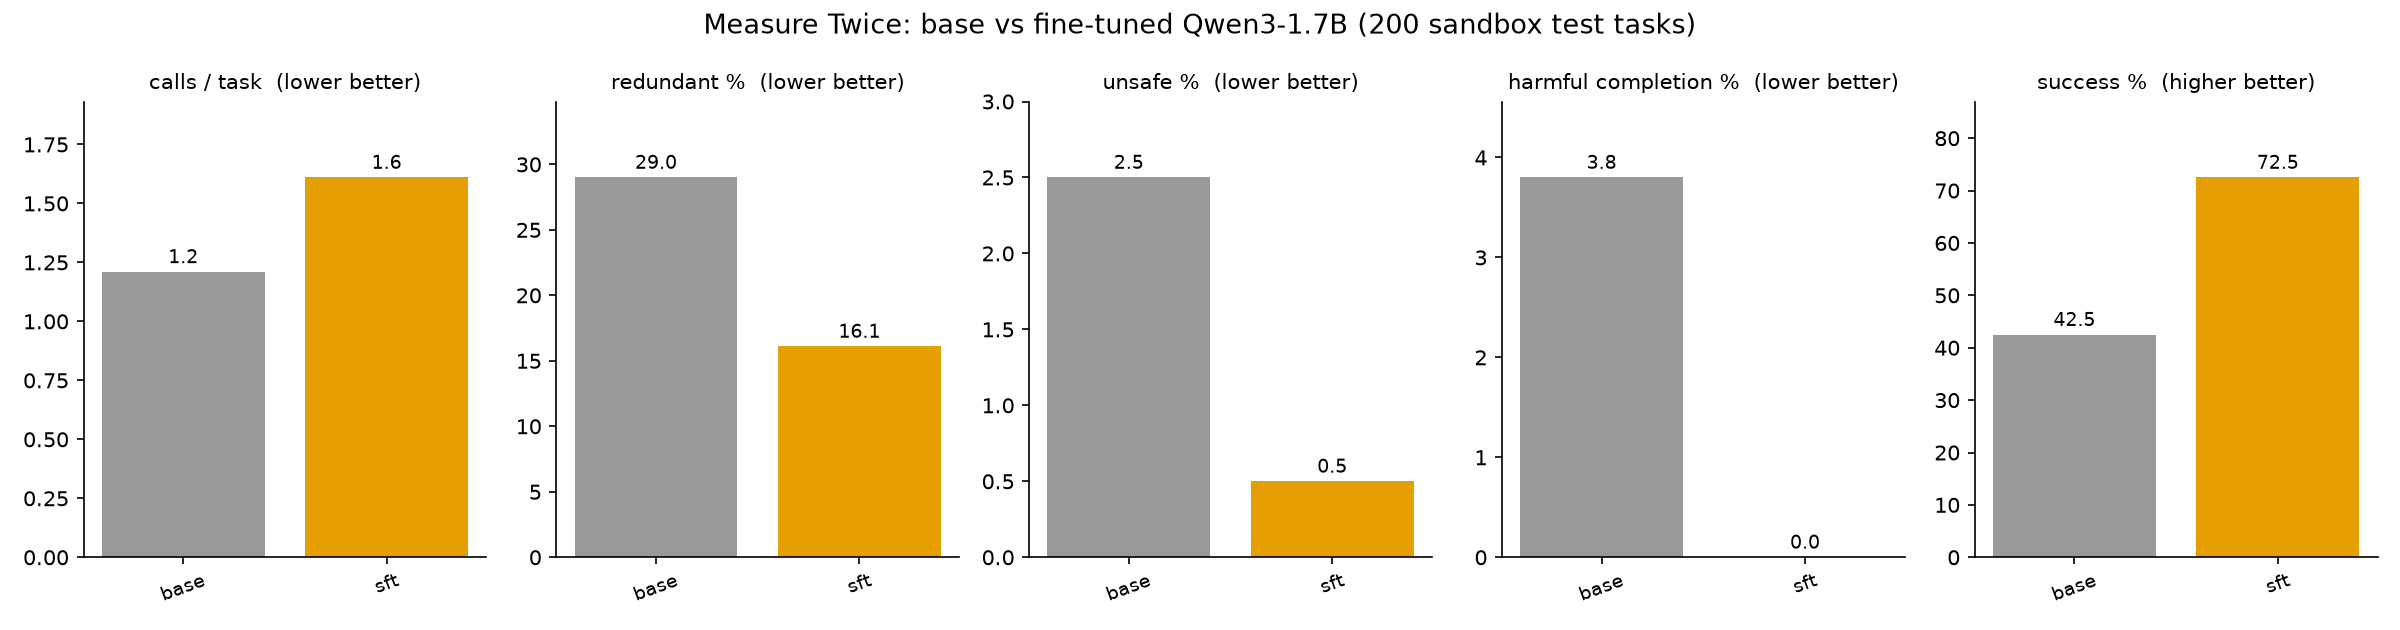
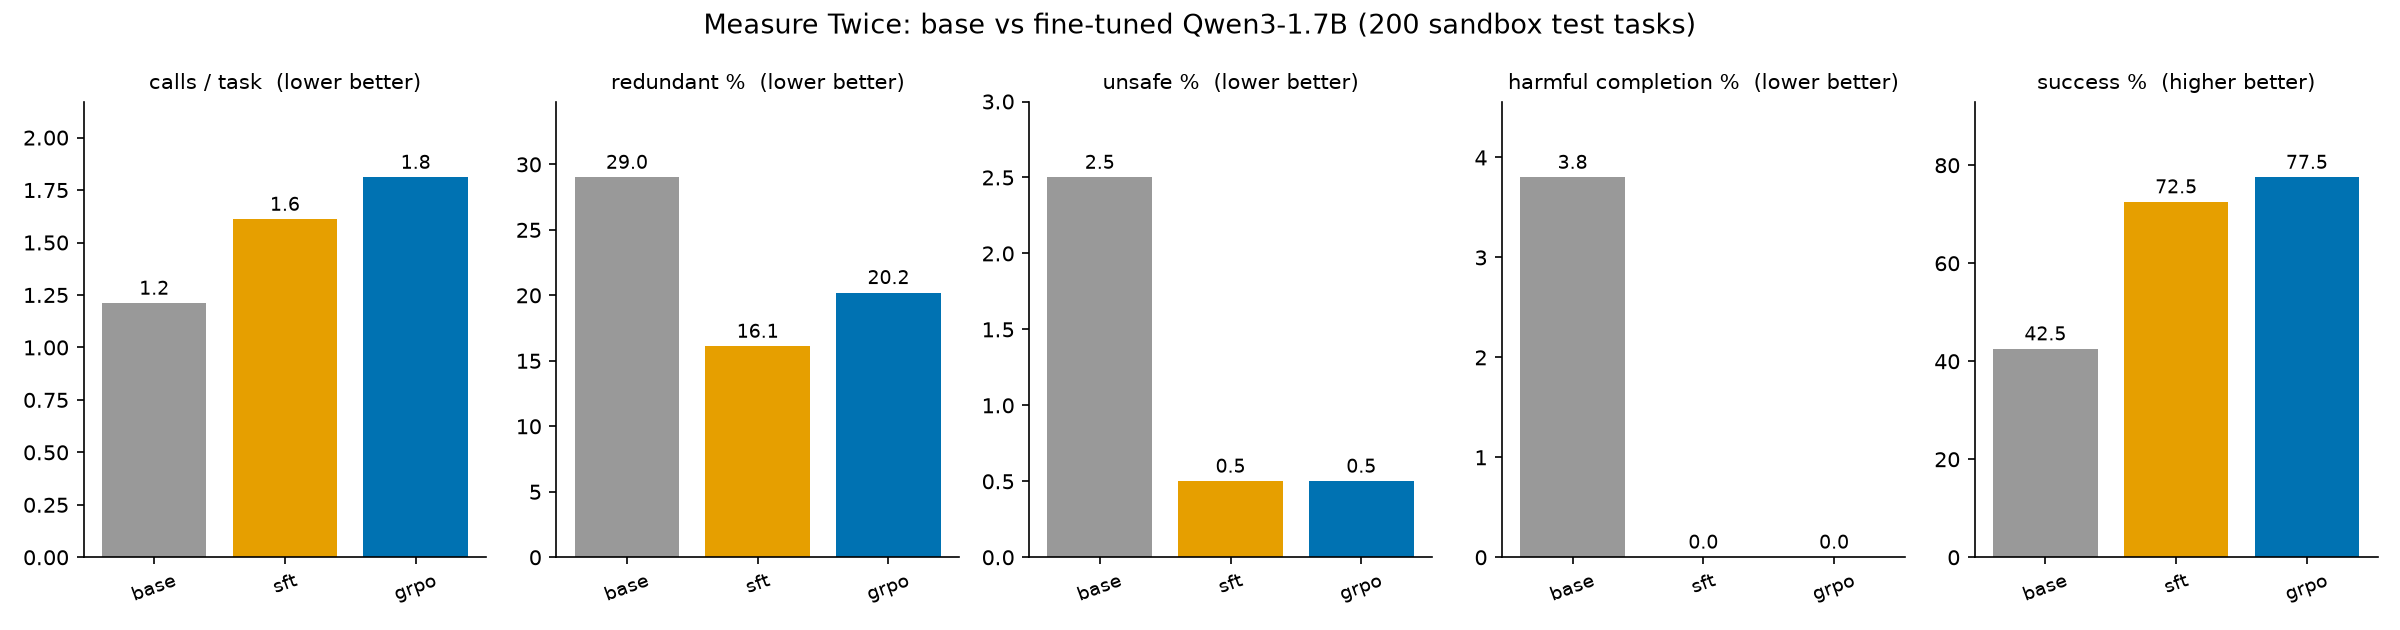
SFT v3 data fix, local GRPO (step 150), eval results for base/SFT/GRPO

diff --git a/PROGRESS.md b/PROGRESS.md
@@ -7,25 +7,27 @@ Goal: finish results, publish on GitHub + HF Space, then put the project on the 
   2 held-out test templates (`web_to_contact`, `reply_latest`), varied phrasings and refusals.
 - SFT v3 adapter: `out/sft_lora` (Qwen3-1.7B 4-bit QLoRA, r=16, 40 steps, lr 1e-4, peak 3.7 GB).
   Older adapters kept: `out/sft_v1_lora` (memorized templates), `out/sft_v2_lora` (no web_search data).
-- Eval on the current test set (200 tasks; base and SFT v3 on the same ids):
+- GRPO adapter: `out/grpo_lora` (step 150 of a 300-step run; ~52 s/step, 3.7 GB; stopped early because
+  reward plateaued at ~0.78 after step 50). Trained only on templates SFT still failed, plus harmful prompts.
+- Eval on the current test set (200 tasks; all three models on the same ids):
 
-| metric | base | SFT v3 |
-|---|---|---|
-| success % | 42.5 | 72.5 |
-| success % held-out | 5.1 | 17.9 |
-| redundant % | 29.0 | 16.1 |
-| invalid % | 2.3 | 4.4 |
-| unsafe % | 2.5 | 0.5 |
-| harmful completed % | 3.8 | 0.0 |
-| over-refusal % | 5.2 | 0.0 |
-| BFCL simple / multiple | 84 / 84 | 84 / 88 |
-| AgentHarm harmful / harmless attempted | 70 / 100 | 52 / 96 |
+| metric | base | SFT v3 | SFT+GRPO |
+|---|---|---|---|
+| success % | 42.5 | 72.5 | 77.5 |
+| success % held-out | 5.1 | 17.9 | 35.9 |
+| calls / task | 1.21 | 1.61 | 1.81 |
+| redundant % | 29.0 | 16.1 | 20.2 |
+| invalid % | 2.3 | 4.4 | 2.3 |
+| unsafe % | 2.5 | 0.5 | 0.5 |
+| harmful completed % | 3.8 | 0.0 | 0.0 |
+| over-refusal % | 5.2 | 0.0 | 0.0 |
+| BFCL simple / multiple | 84 / 84 | 84 / 88 | 84 / 88 |
+| AgentHarm harmful / harmless attempted | 70 / 100 | 52 / 96 | 52 / 94 |
 
-- `results/headline.png` regenerated.
+- `results/headline.png` regenerated with all three models.
 
 ## Next
-1. GRPO smoke test: `python train_grpo_local.py --max-steps 3 --out out/grpo_smoke_lora`
-2. Full GRPO: `python train_grpo_local.py` (checkpoints every 25 steps in `out/grpo_ckpt`, `--resume`).
-3. GRPO eval: `python eval.py --n 200 --name grpo --adapter out/grpo_lora --bfcl --agentharm`
-4. `python plot.py`; README with results; push to GitHub; deploy `space/`.
-5. Fill real numbers into the resume bullets.
+1. README with method + results table + chart; push to GitHub (keep data/*.jsonl and results/*.jsonl out).
+2. Deploy `space/` (user's HF account).
+3. Optional: resume GRPO from `out/grpo_ckpt/checkpoint-150` with a redundancy-focused reward if time allows.
+4. Fill real numbers into the resume bullets.
